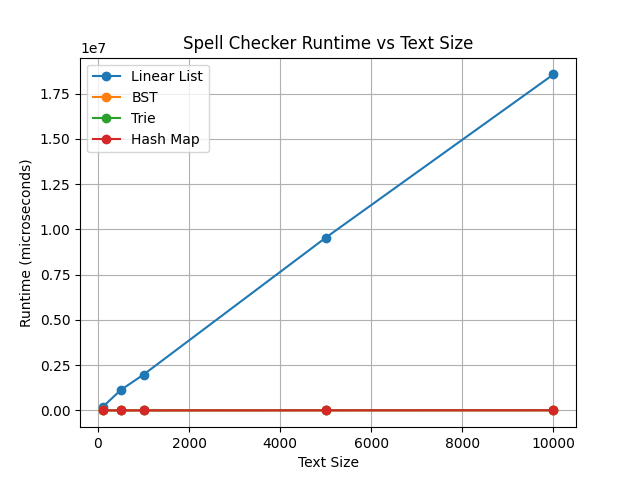
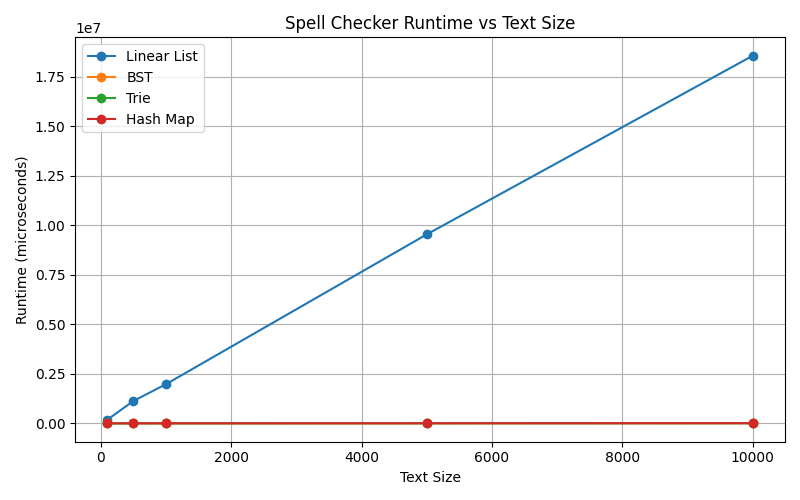
modified:   Part1/Part1A/graph.py 	modified:   Part1/Part1A/main.cpp 	modified:   Part1/Part1A/runtime_graph.png 	new file:   Part1/Part1A/runtime_graphNOLINEAR.png 	modified:   Part1/Part1B/main.cpp 	modified:   Part1/Part1C/main.cpp

diff --git a/Part1/Part1A/graph.py b/Part1/Part1A/graph.py
@@ -3,7 +3,8 @@ import matplotlib.pyplot as plt
 
 data = pd.read_csv("benchmark_results.csv")
 
-plt.figure()
+# Full graph
+plt.figure(figsize=(8,5))
 plt.plot(data["TextSize"], data["Linear"], marker="o", label="Linear List")
 plt.plot(data["TextSize"], data["BST"], marker="o", label="BST")
 plt.plot(data["TextSize"], data["Trie"], marker="o", label="Trie")
@@ -14,6 +15,21 @@ plt.ylabel("Runtime (microseconds)")
 plt.title("Spell Checker Runtime vs Text Size")
 plt.legend()
 plt.grid(True)
-
+plt.tight_layout()
 plt.savefig("runtime_graph.png")
+
+# Graph without linear list
+plt.figure(figsize=(8,5))
+plt.plot(data["TextSize"], data["BST"], marker="o", label="BST")
+plt.plot(data["TextSize"], data["Trie"], marker="o", label="Trie")
+plt.plot(data["TextSize"], data["Hash"], marker="o", label="Hash Map")
+
+plt.xlabel("Text Size")
+plt.ylabel("Runtime (microseconds)")
+plt.title("Spell Checker Runtime vs Text Size (Without Linear List)")
+plt.legend()
+plt.grid(True)
+plt.tight_layout()
+plt.savefig("runtime_graphNOLINEAR.png")
+
 plt.show()

diff --git a/Part1/Part1C/main.cpp b/Part1/Part1C/main.cpp
@@ -86,7 +86,9 @@ vector<vector<int>> createGraph(int numGuests, const vector<pair<int, int>>& dis
 
 // Non-recursive DFS using a stack.
 // This checks if the graph is bipartite.
-//
+// The seating problem is the same as checking whether the dislike graph is bipartite.
+// If the graph can be colored with two colors, then those colors represent the two tables.
+// A conflict happens if two guests who dislike each other receive the same color.
 // color 0 = Table 1
 // color 1 = Table 2
 // color -1 = not assigned yet

diff --git a/Part1/Part1A/main.cpp b/Part1/Part1A/main.cpp
@@ -129,11 +129,12 @@ bool loadDictionary(string filename) {
         }
     }
 
-    // Sorting is only used for organized storage.
-    // The actual linear search still scans one by one.
+
+    // Sorting keeps the dictionary organized, but this version still uses
+    // a true linear scan for lookup, so it remains the naive O(n) method.
     sort(linearList.begin(), linearList.end());
 
-    return true;
+    return true;run===
 }
 
 // Naive linear-list approach.

diff --git a/Part1/Part1B/main.cpp b/Part1/Part1B/main.cpp
@@ -377,7 +377,7 @@ int main() {
         } else {
 
             double time =
-                static_cast<double>(distance) / wizard.speed;
+            static_cast<double>(distance) / wizard.speed;
 
             cout << "distance = "
                  << distance
